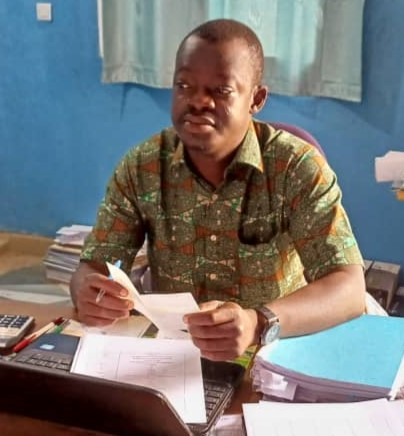
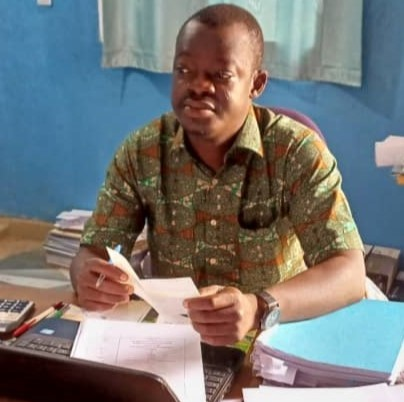
Ajout et derniere modification des images de la team

diff --git a/marine/templates/about.html b/marine/templates/about.html
@@ -83,7 +83,7 @@
       <div class="col-md-4">
         <div class="team-member">
           <div class="thumb-container">
-            <img src="{% static 'assets/images/team_02.jpg' %}" alt="">
+            <img src="{% static 'assets/images/Team members/team2.jpg' %}" alt="">
             <div class="">
               <!-- <div class="hover-content">
                     <ul class="social-icons">
@@ -96,7 +96,7 @@
             </div>
           </div>
           <div class="down-content">
-            <h4>Karry Pitcher</h4>
+            <h4>Veronique</h4>
             <span>Secretaire</span>
             <!-- <p>Lorem ipsum dolor sit amet, consectetur adipisicing itaque corporis nulla.</p> -->
           </div>
@@ -105,7 +105,7 @@
       <div class="col-md-4">
         <div class="team-member">
           <div class="thumb-container">
-            <img src="{% static 'assets/images/team_03.jpg' %}" alt="">
+            <img src="{% static 'assets/images/Team members/team3.jpg' %}" alt="">
             <div class="">
               <!-- <div class="hover-content">
                     <ul class="social-icons">
@@ -118,7 +118,7 @@
             </div>
           </div>
           <div class="down-content">
-            <h4>Michael Soft</h4>
+            <h4>Andre</h4>
             <span>Magasinier</span>
             <p></p>
           </div>
@@ -140,7 +140,7 @@
                 </div> -->
           </div>
           <div class="down-content">
-            <h4>SAMBIANI Panguidame</h4>
+            <h4>Rosali</h4>
             <span>Livreur</span>
             <p></p>
           </div>
@@ -149,7 +149,7 @@
       <div class="col-md-4">
         <div class="team-member">
           <div class="thumb-container">
-            <img src="{% static 'assets/images/' %}" alt="">
+            <img src="{% static 'assets/images/Team members/team4.jpg' %}" alt="">
             <div class="">
               <!-- <div class="hover-content">
                     <ul class="social-icons">
